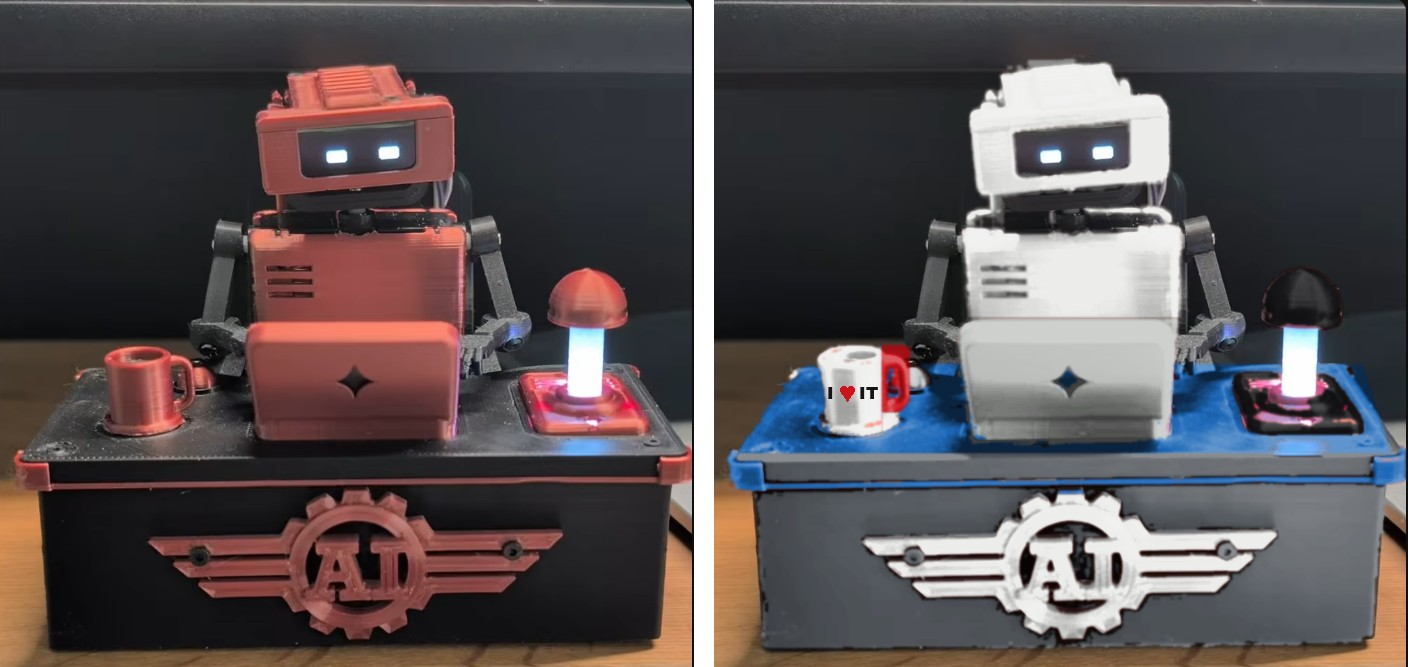
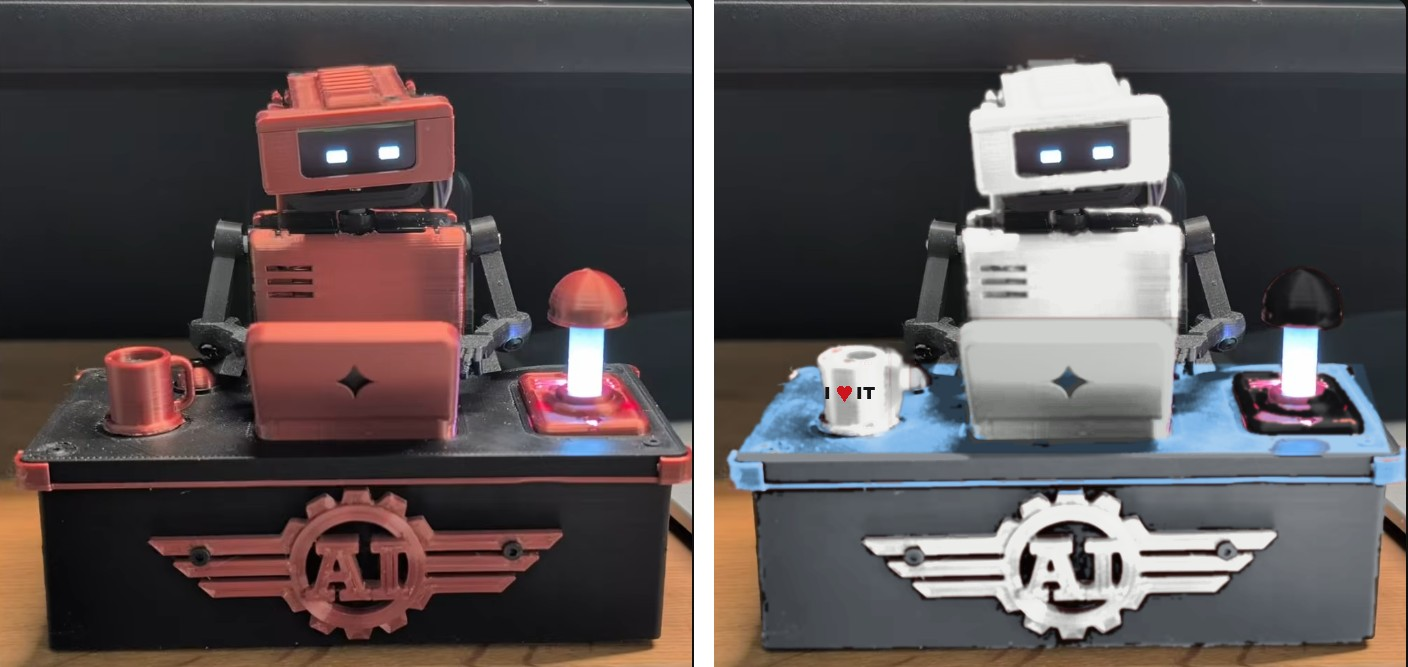
docs: mug text faces front, lighter glass top with PETG Natur backing

Changed region(s): [[0.5, 0.5097, 1.0, 0.7496]]

diff --git a/mein-build/farben/README.md b/mein-build/farben/README.md
@@ -29,13 +29,13 @@ Filamente (1,75 mm, Preise vom 30.09.2026):
 | PLA Feuerrot | [Probe](https://dasfilament.de/produkt/pla-filament-175-mm-feuerrot-50-g-sample/) | 3 g | 50-g-Probe, 2,95 € |
 | PETG Alu-Silber | [Probe](https://dasfilament.de/produkt/petg-filament-50-g-sample-175-mm-alu-silber/) | 46 g | 2 Proben, 5,90 € |
 | PETG Transparent Blau | [1 kg](https://dasfilament.de/produkt/petg-filament-175-mm-transparent-blau-1-kg/) | 120 g | 1 kg, 21,00 € (3 Proben wären zu knapp) |
-| PETG Blau (Sichtschutz) | [Probe](https://dasfilament.de/produkt/petg-filament-50-g-sample-175-mm-blau/) | ~15 g | 50-g-Probe, 2,95 € |
+| PETG Natur (Sichtschutz) | [Probe](https://dasfilament.de/produkt/petg-filament-50-g-sample-175-mm-natur/) | ~15 g | 50-g-Probe, 2,95 € |
 | Farbmuster-Set (68 Plättchen: 34 PLA, 30 PETG, 3 TPU) | [Set](https://dasfilament.de/produkt/farbplaettchen-farbmuster-set-swatches/) | – | 19,94 € |
 
 Das Farbmuster-Set zeigt jede Farbe in Stufen von 0,2 bis 2 mm Dicke. Damit lässt sich vor dem Kauf prüfen, wie durchsichtig Transparent Blau und Natur bei der Plattenstärke wirken.
 
 ## Offene Punkte
 
-- **Glasplatte:** Transparent-Blau-PETG ist ein kräftiges Blau. Damit man die Elektronik nicht sieht, die untersten 2–3 Schichten in deckendem PETG drucken (Farbwechsel per Pause). PLA (z. B. Himmelblau) haftet schlecht auf PETG, deshalb PETG Blau.
+- **Glasplatte:** Platte und Kanten sind durchsichtig, nur die untersten 2–3 Schichten sind Sichtschutz (Farbwechsel per Pause). Der Sichtschutz bestimmt, wie hell die Platte wirkt: PETG Natur ergibt ein helles Eisblau wie in der Vorschau, PETG Blau ein kräftiges Dunkelblau. PLA haftet schlecht auf PETG, deshalb auch der Sichtschutz aus PETG.
 - **Lampenschirm:** In Transparent Blau leuchtet die Lampe blau. Für weißes Licht PETG Natur nehmen.
-- **Tasse „I ♥ IT“:** Die Tasse ist 15 × 15 mm, die Zeichen wären etwa 4–5 mm hoch. Dafür muss das Motiv erst ins Modell (Fusion). Beim Druck wechselt die Farbe innerhalb einer Schicht; das geht nur mit Farbwechsler (AMS) oder durch Bemalen.
+- **Tasse „I ♥ IT“:** Der Schriftzug sitzt genau gegenüber dem Henkel. Die Tasse wird so eingesetzt, dass der Henkel nach hinten zeigt und der Schriftzug nach vorn. Die Tasse ist 15 × 15 mm, die Zeichen wären etwa 4–5 mm hoch. Dafür muss das Motiv erst ins Modell (Fusion). Beim Druck wechselt die Farbe innerhalb einer Schicht; das geht nur mit Farbwechsler (AMS) oder durch Bemalen.
